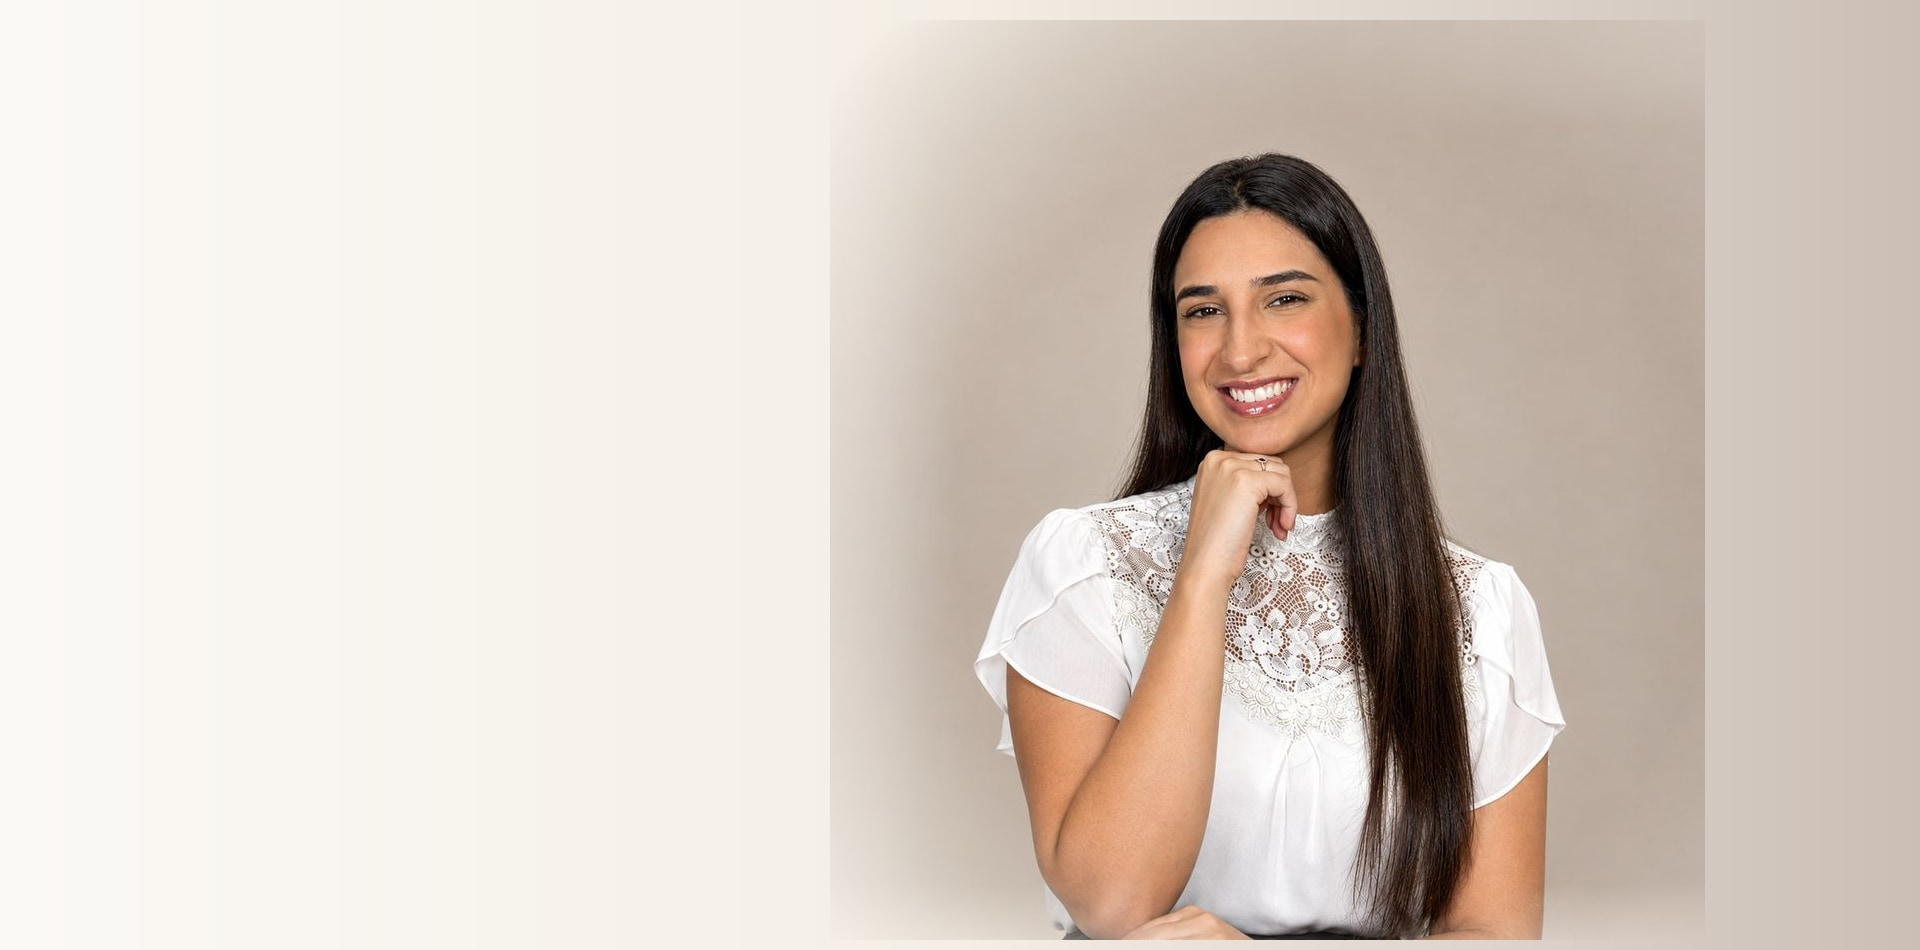
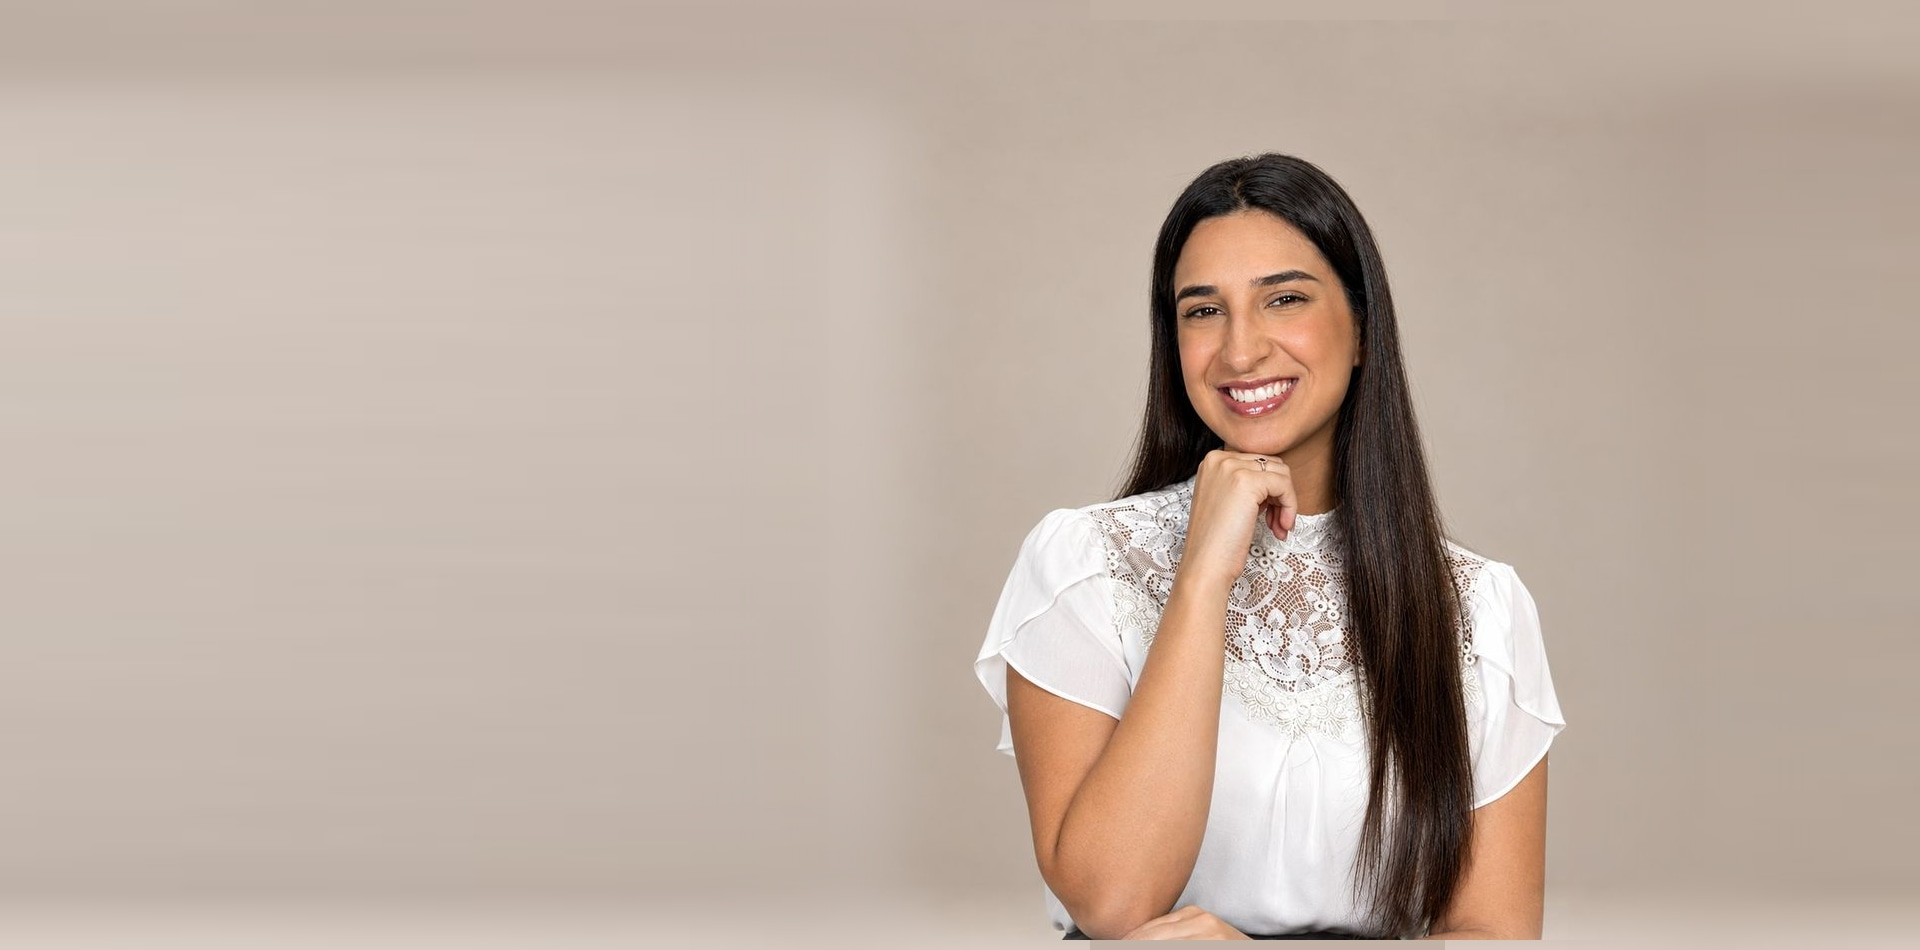
Corrige qualidade da foto e a costura entre ela e o fundo do herói
Next.js recomprime toda imagem otimizada para qualidade 75 por padrão,
mesmo com o arquivo de origem em qualidade máxima — isso é que estava
amolecendo a Foto Início no site. Sobe para 90 nas duas versões do
herói (mobile e desktop) e libera esse valor na config de imagens.

A costura entre a foto e o fundo sintético continuava visível mesmo
com a cor batendo certinho: o problema era a foto ter grão fotográfico
natural encostando num fundo perfeitamente liso, criando uma banda de
Mach (nosso olho realça bordas assim mesmo sem diferença real de cor).
Corrigido aplicando um leve desfoque só numa faixa estreita bem em
cima da costura, sem tocar no resto da composição, incluindo o rosto
dela.

diff --git a/app/page.tsx b/app/page.tsx
@@ -39,6 +39,7 @@ export default async function HomePage() {
             alt="Letícia Oliveira, advogada especialista em leilões de imóveis"
             fill
             priority
+            quality={90}
             sizes="100vw"
             className="object-cover object-top"
           />
@@ -51,6 +52,7 @@ export default async function HomePage() {
               alt="Letícia Oliveira, advogada especialista em leilões de imóveis"
               fill
               priority
+              quality={90}
               sizes="100vw"
               className="object-cover object-[center_top]"
             />

diff --git a/next.config.ts b/next.config.ts
@@ -12,6 +12,8 @@ const nextConfig: NextConfig = {
       { protocol: "https", hostname: "images.unsplash.com" },
       { protocol: "https", hostname: "images.pexels.com" },
     ],
+    // Default (75) softened the hero portrait noticeably; 90 keeps it crisp.
+    qualities: [75, 90],
   },
 };
 
